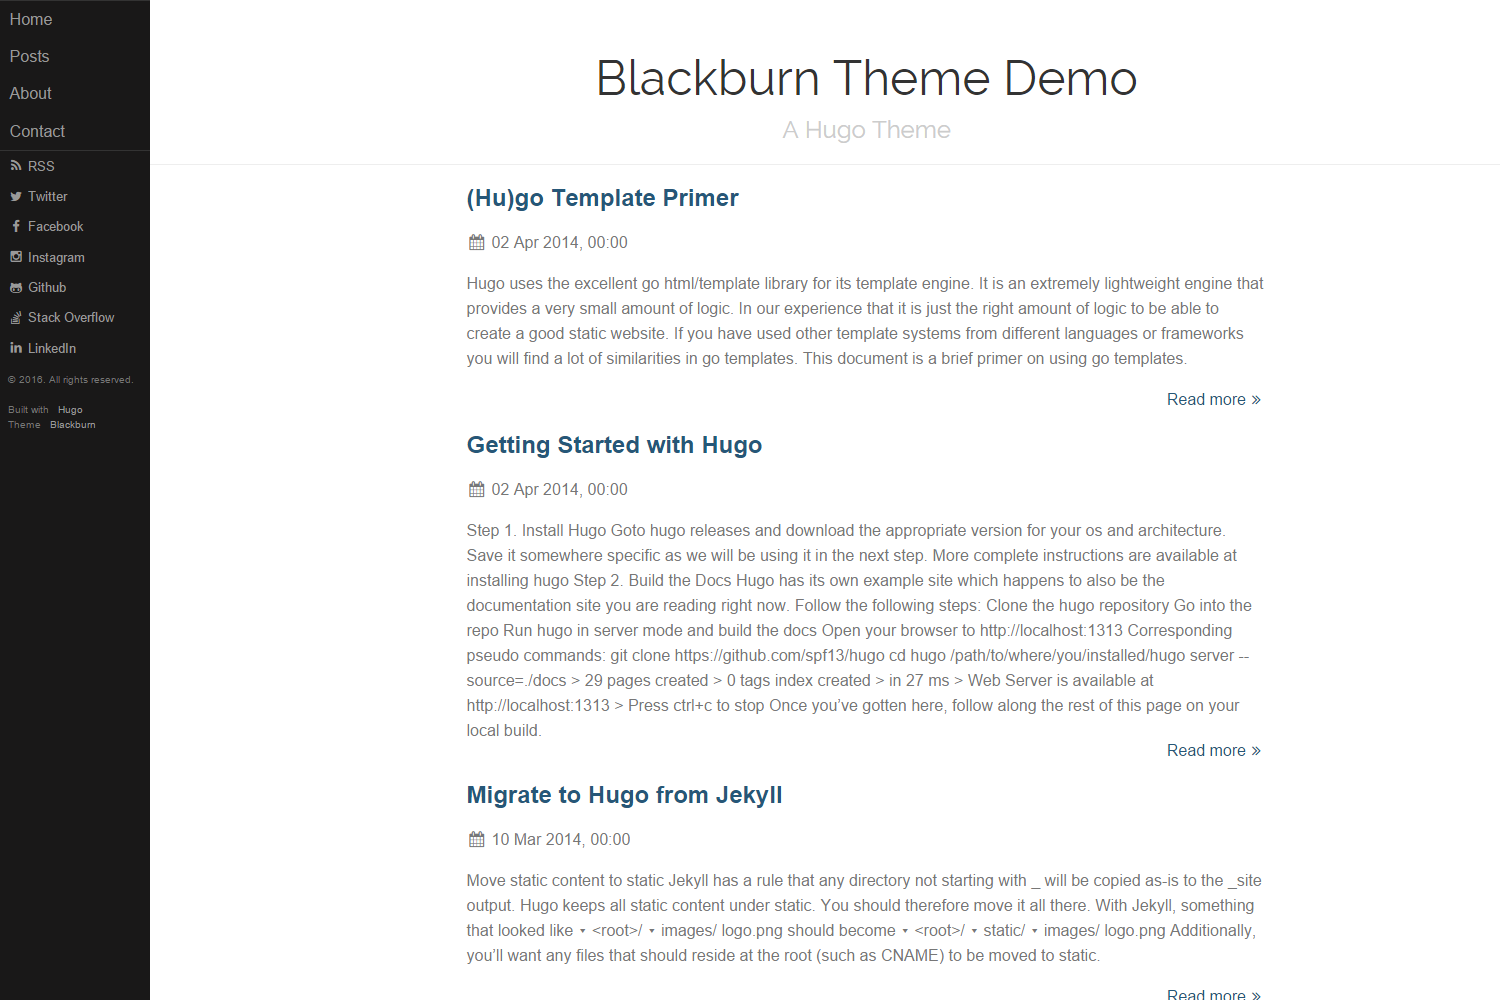
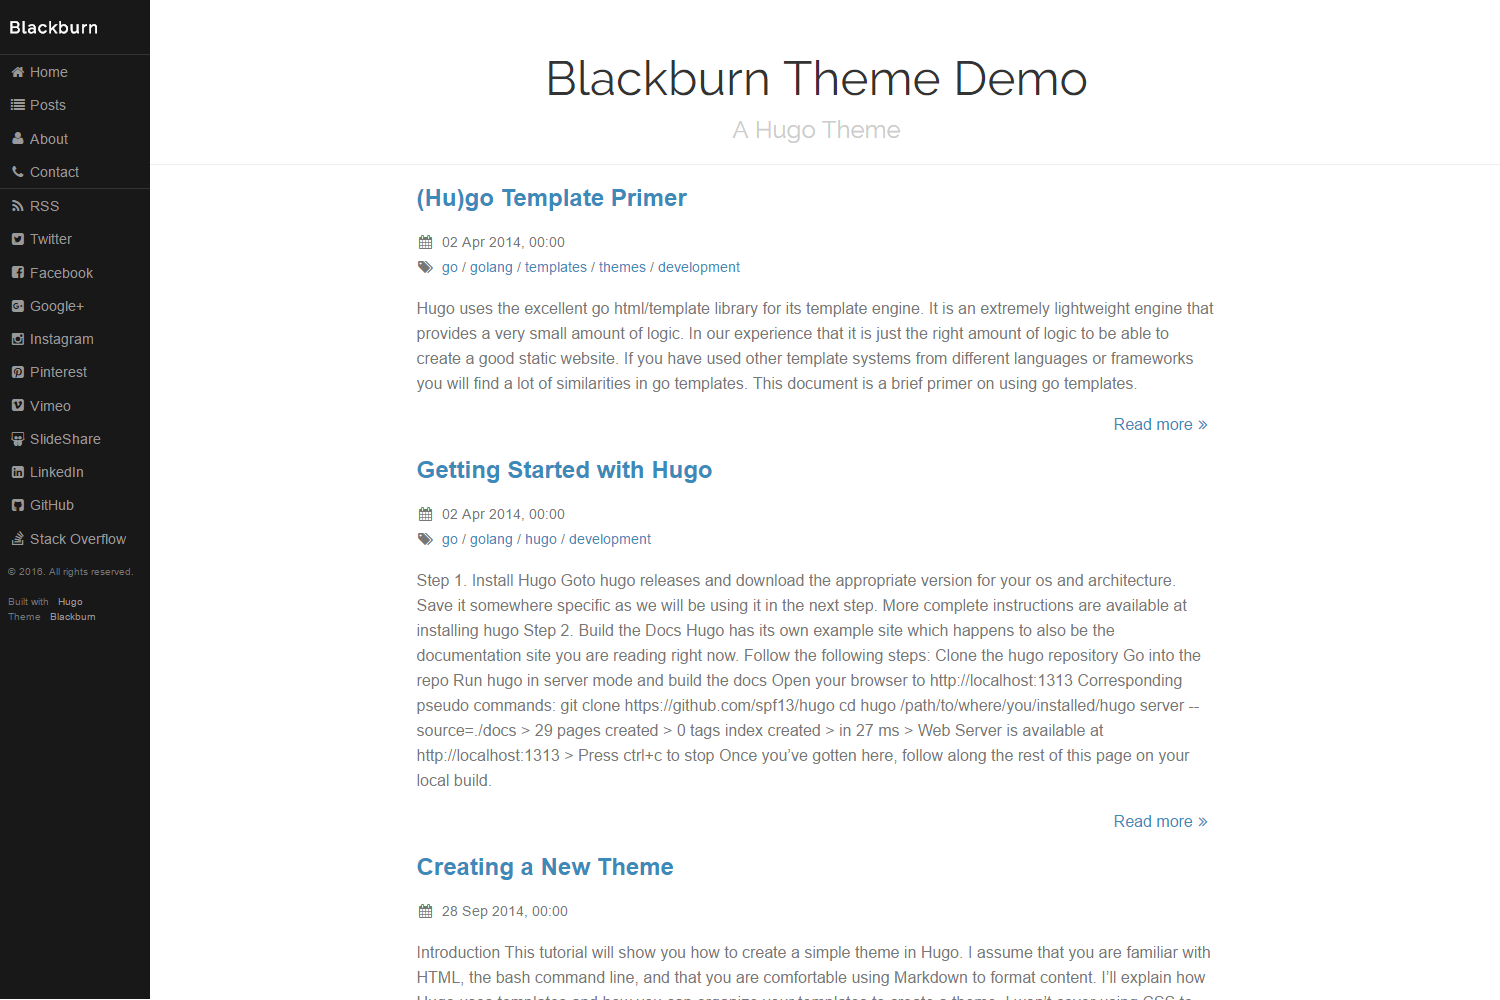
Update theme to the latest

diff --git a/themes/blackburn/layouts/partials/social.html b/themes/blackburn/layouts/partials/social.html
@@ -9,13 +9,13 @@
 
     {{ with .Site.Social.twitter }}
     <li class="pure-menu-item">
-      <a class="pure-menu-link" href="https://twitter.com/{{ . }}" target="_blank"><i class="fa fa-twitter fa-fw"></i>Twitter</a>
+      <a class="pure-menu-link" href="https://twitter.com/{{ . }}" target="_blank"><i class="fa fa-twitter-square fa-fw"></i>Twitter</a>
     </li>
     {{ end }}
 
     {{ with .Site.Social.facebook }}
     <li class="pure-menu-item">
-      <a class="pure-menu-link" href="https://facebook.com/{{ . }}" target="_blank"><i class="fa fa-facebook fa-fw"></i>Facebook</a>
+      <a class="pure-menu-link" href="https://facebook.com/{{ . }}" target="_blank"><i class="fa fa-facebook-square fa-fw"></i>Facebook</a>
     </li>
     {{ end }}
 
@@ -47,19 +47,19 @@
 
     {{ with .Site.Social.pinterest }}
     <li class="pure-menu-item">
-      <a class="pure-menu-link" href="https://pinterest.com/{{ . }}" target="_blank"><i class="fa fa-pinterest fa-fw"></i>Pinterest</a>
+      <a class="pure-menu-link" href="https://pinterest.com/{{ . }}" target="_blank"><i class="fa fa-pinterest-square fa-fw"></i>Pinterest</a>
     </li>
     {{ end }}
 
     {{ with .Site.Social.youtube }}
     <li class="pure-menu-item">
-      <a class="pure-menu-link" href="https://youtube.com/user/{{ . }}" target="_blank"><i class="fa fa-youtube fa-fw"></i>YouTube</a>
+      <a class="pure-menu-link" href="https://youtube.com/user/{{ . }}" target="_blank"><i class="fa fa-youtube-square fa-fw"></i>YouTube</a>
     </li>
     {{ end }}
 
     {{ with .Site.Social.vimeo }}
     <li class="pure-menu-item">
-      <a class="pure-menu-link" href="https://vimeo.com/{{ . }}" target="_blank"><i class="fa fa-vimeo fa-fw"></i>Vimeo</a>
+      <a class="pure-menu-link" href="https://vimeo.com/{{ . }}" target="_blank"><i class="fa fa-vimeo-square fa-fw"></i>Vimeo</a>
     </li>
     {{ end }}
 
@@ -79,13 +79,13 @@
 
     {{ with .Site.Social.linkedin }}
     <li class="pure-menu-item">
-      <a class="pure-menu-link" href="https://linkedin.com/in/{{ . }}" target="_blank"><i class="fa fa-linkedin fa-fw"></i>LinkedIn</a>
+      <a class="pure-menu-link" href="https://linkedin.com/in/{{ . }}" target="_blank"><i class="fa fa-linkedin-square fa-fw"></i>LinkedIn</a>
     </li>
     {{ end }}
 
     {{ with .Site.Social.xing }}
     <li class="pure-menu-item">
-      <a class="pure-menu-link" href="https://xing.com/profile/{{ . }}" target="_blank"><i class="fa fa-xing fa-fw"></i>Xing</a>
+      <a class="pure-menu-link" href="https://xing.com/profile/{{ . }}" target="_blank"><i class="fa fa-xing-square fa-fw"></i>Xing</a>
     </li>
     {{ end }}
 
@@ -93,7 +93,13 @@
 
     {{ with .Site.Social.reddit }}
     <li class="pure-menu-item">
-      <a class="pure-menu-link" href="https://reddit.com/user/{{ . }}" target="_blank"><i class="fa fa-reddit fa-fw"></i>Reddit</a>
+      <a class="pure-menu-link" href="https://reddit.com/user/{{ . }}" target="_blank"><i class="fa fa-reddit-square fa-fw"></i>Reddit</a>
+    </li>
+    {{ end }}
+
+    {{ with .Site.Social.hackernews }}
+    <li class="pure-menu-item">
+      <a class="pure-menu-link" href="https://news.ycombinator.com/user?id={{ . }}" target="_blank"><i class="fa fa-hacker-news fa-fw"></i>Hacker News</a>
     </li>
     {{ end }}
 
@@ -101,13 +107,13 @@
 
     {{ with .Site.Social.github }}
     <li class="pure-menu-item">
-      <a class="pure-menu-link" href="https://github.com/{{ . }}" target="_blank"><i class="fa fa-github-alt fa-fw"></i>GitHub</a>
+      <a class="pure-menu-link" href="https://github.com/{{ . }}" target="_blank"><i class="fa fa-github-square fa-fw"></i>GitHub</a>
     </li>
     {{ end }}
 
     {{ with .Site.Social.bitbucket }}
     <li class="pure-menu-item">
-      <a class="pure-menu-link" href="https:////bitbucket.org/{{ . }}" target="_blank"><i class="fa fa-bitbucket fa-fw"></i>Bitbucket</a>
+      <a class="pure-menu-link" href="https:////bitbucket.org/{{ . }}" target="_blank"><i class="fa fa-bitbucket-square fa-fw"></i>Bitbucket</a>
     </li>
     {{ end }}
 

diff --git a/themes/blackburn/layouts/shortcodes/fluid_img.html b/themes/blackburn/layouts/shortcodes/fluid_img.html
@@ -1,1 +1,7 @@
-<img src="{{ index .Params 0 }}" alt="" class="pure-img" >
+{{ if .IsNamedParams }}
+<div class="{{ if .Get "class" }}{{ .Get "class" }}{{ else }}pure-u-1{{ end }}">
+  <img class="pure-img" src="{{ .Get "src" }}" {{ if or (.Get "alt") (.Get "caption") }}alt="{{ with .Get "alt"}}{{.}}{{else}}{{ .Get "caption" }}{{ end }}"{{ end }}>
+</div>
+{{ else }}
+<img class="pure-img" src="{{ index .Params 0 }}" alt="">
+{{ end }}

diff --git a/themes/blackburn/README.md b/themes/blackburn/README.md
@@ -4,7 +4,7 @@ Blackburn is a clear and responsive theme for [Hugo](//gohugo.io).
 
 ## Overview
 
-* Based on Yahoo's [Pure CSS] (http://purecss.io/)
+* Based on Yahoo's [Pure CSS] (http://purecss.io/) (v0.6.0)
 * Fixed sidebar with social links:
   * Twitter
   * Facebook
@@ -20,13 +20,14 @@ Blackburn is a clear and responsive theme for [Hugo](//gohugo.io).
   * LinkedIn
   * Xing
   * Reddit
+  * Hacker News
   * GitHub
   * Bitbucket
   * Stack Overflow
-* Client-side syntax highlighting by [Highlight.js](//highlightjs.org)
+* Client-side syntax highlighting by [Highlight.js](//highlightjs.org) (v9.1.0)
 * Web analytics by Google Analytics
 * Comments by Disqus
-* Icons by Font Awesome
+* Icons by Font Awesome (v4.5.0)
 
 ## Demo
 
@@ -107,13 +108,13 @@ paginate = 10
 [social]
   # Link your social networking accouns to the side menu
   # by entering your username or ID.
-  
+
   # SNS microblogging
   twitter = "*"
   facebook = "*"
   googleplus = "*"
   weibo = "*"
-  
+
   # SNS photo/video sharing
   instagram = "*"
   flickr = "*"
@@ -122,14 +123,15 @@ paginate = 10
   vimeo = "*"
   vine = "*"
   slideshare = "*"
-  
+
   # SNS career oriented
   linkedin = "*"
   xing = "*"
-  
+
   # SNS news
   reddit = "*"
-  
+  hackernews = "*"
+
   # Techie
   github = "yoshiharuyamashita"
   bitbucket = "*"
@@ -149,6 +151,24 @@ paginate = 10
   identifier = "about"
   url = "/about/"
 ```
+
+## Shortcodes
+
+### Positional
+
+```
+{{% fluid_img "/path/to/img" %}}
+```
+
+### Named
+
+```
+{{% fluid_img class="pure-u-1-2" src="/path/to/img" alt="img description" %}}
+{{% fluid_img class="pure-u-1-3" src="/path/to/img" caption="img description" %}}
+```
+
+* `class`, `alt` and `caption` are optional.
+* See [Pure CSS Grids](http://purecss.io/grids/) for possible `class` values.
 
 ## License
 
